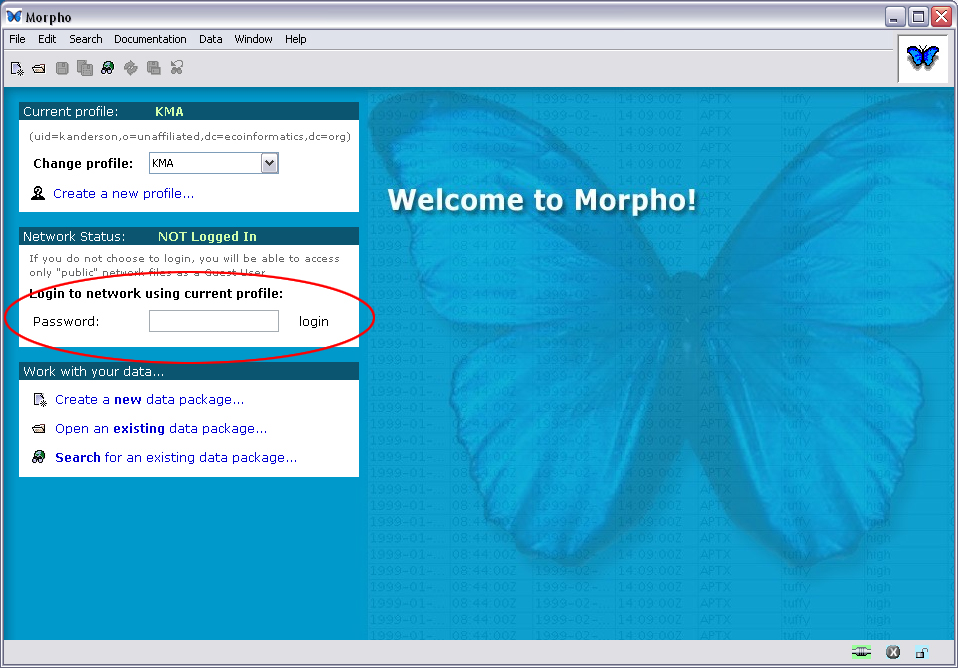
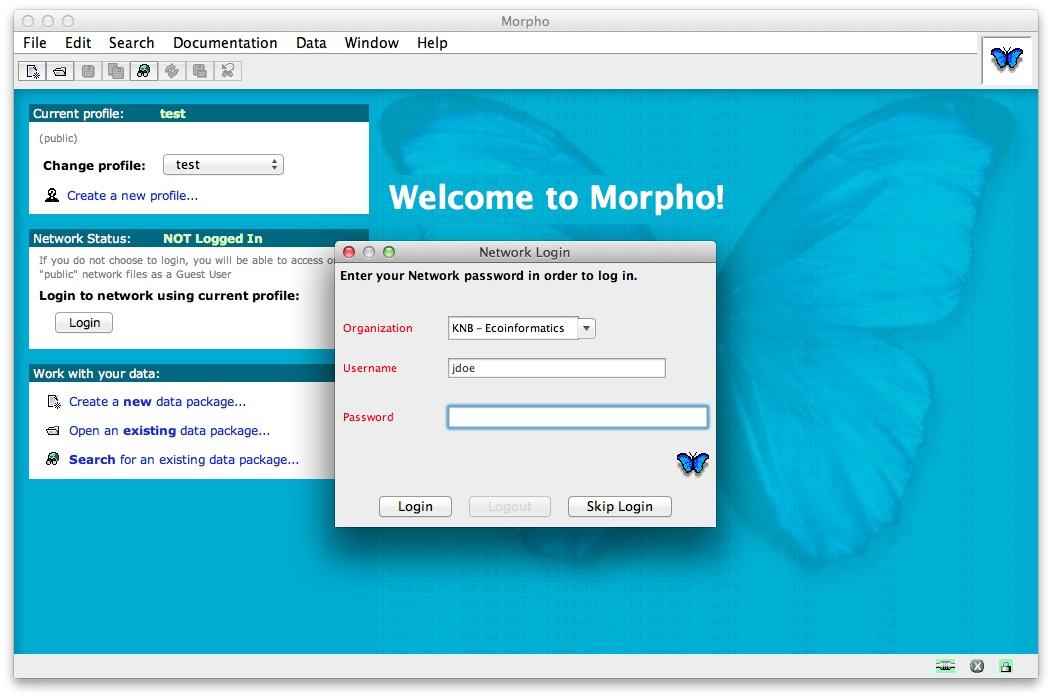
new login panel screenshot. http://bugzilla.ecoinformatics.org/show_bug.cgi?id=5807

diff --git a/docs/user/latex/getting-started.tex b/docs/user/latex/getting-started.tex
@@ -160,7 +160,7 @@ Member Node.
 \begin{figure}
   \centering
     \includegraphics[width=0.7\textwidth]{images/panel-login.jpg}
-  \caption{Log in to the KNB network.}
+  \caption{Log in to the network.}
   \label{fig:panel-login}
 \end{figure}
 
